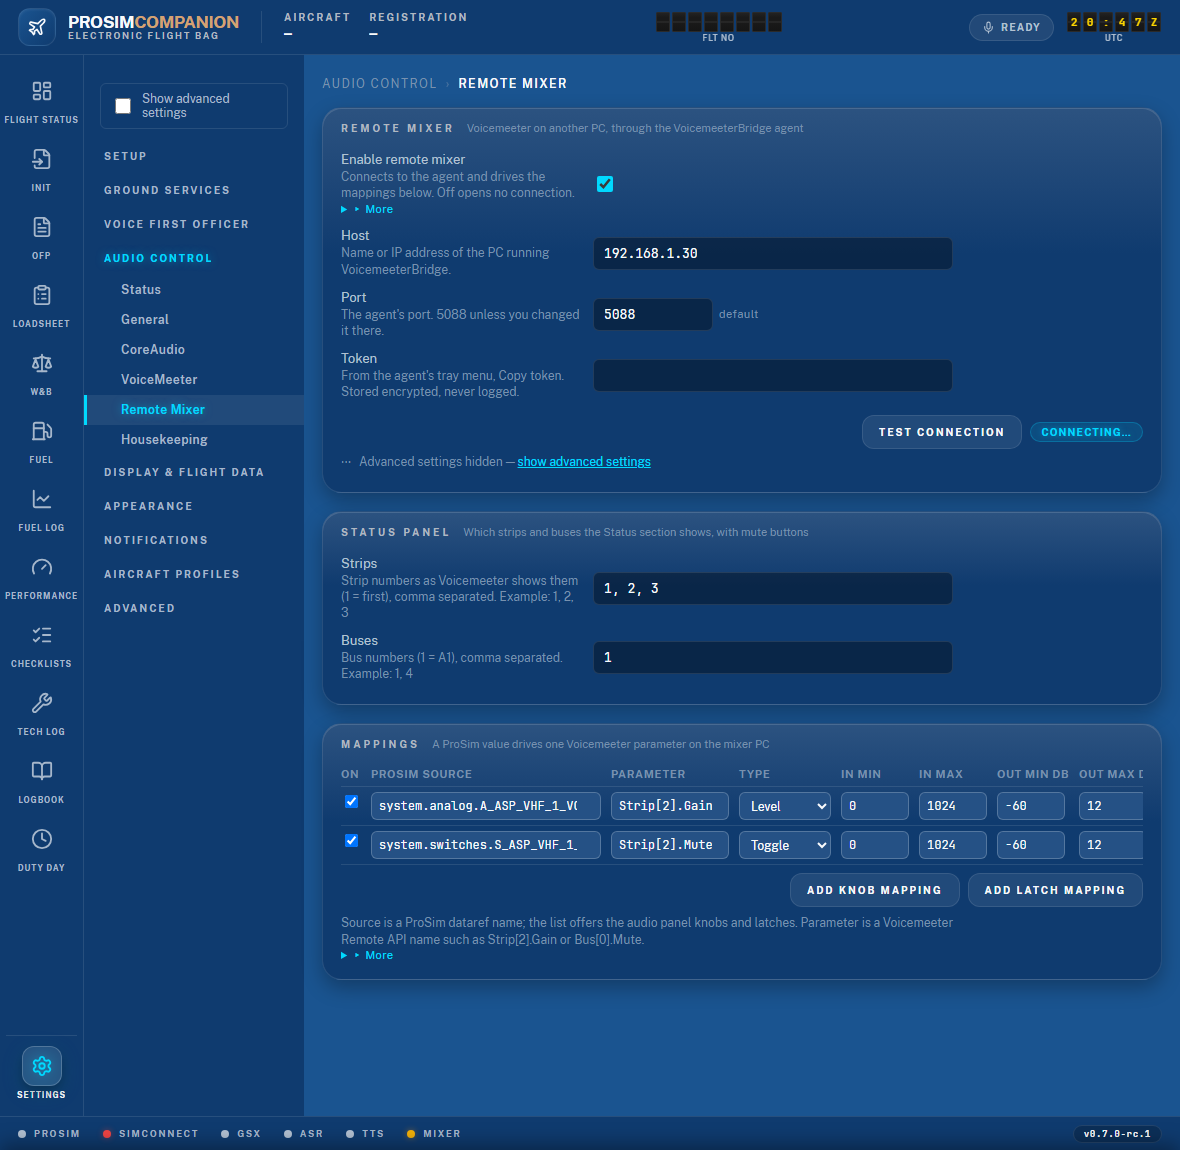
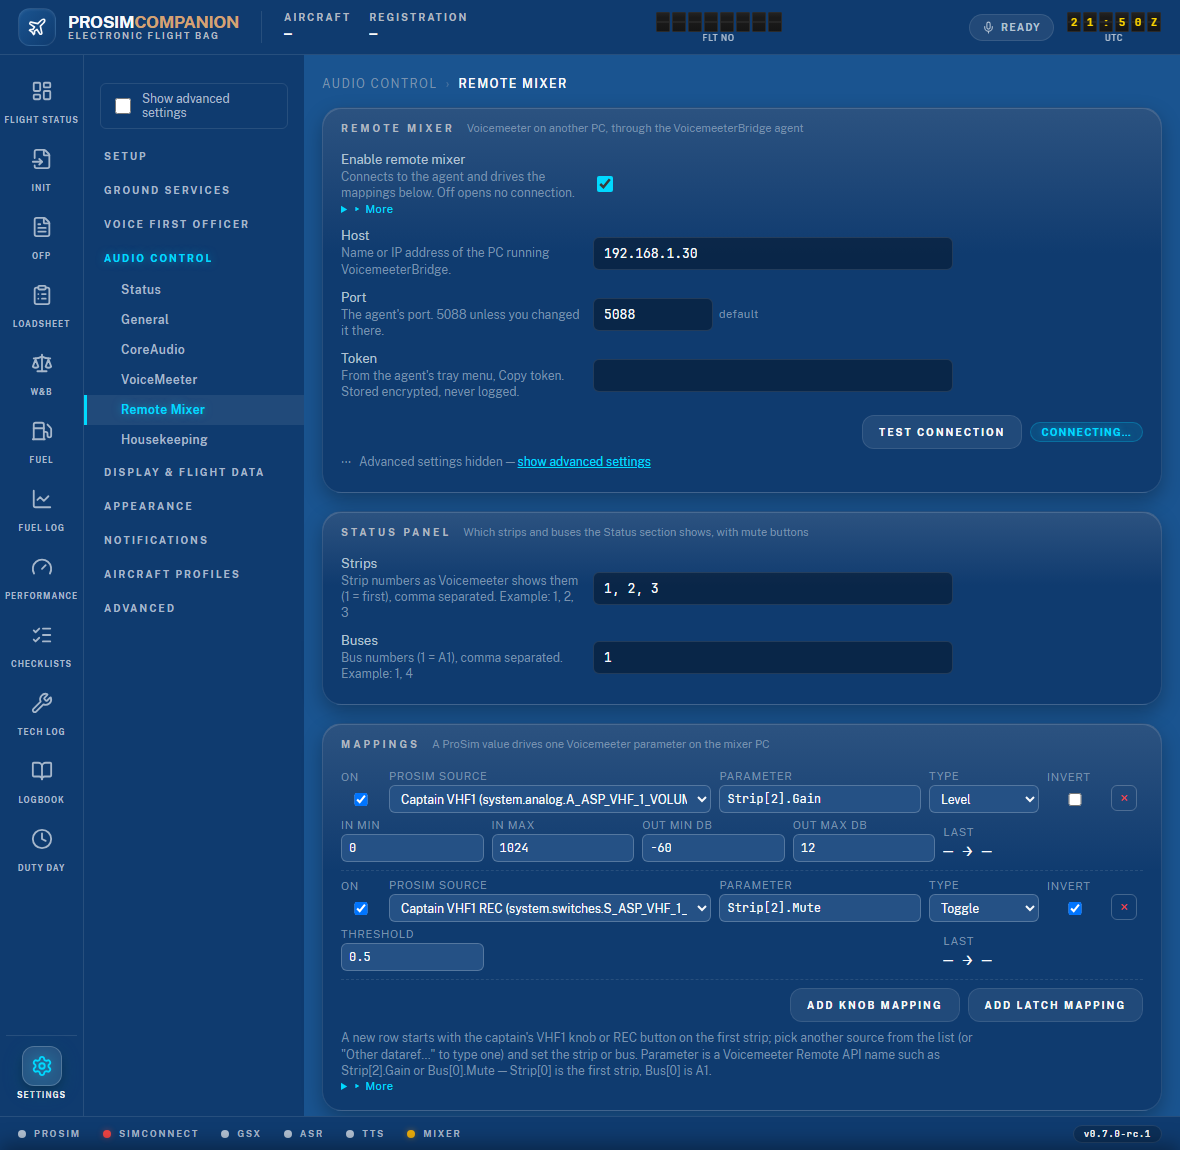
Mixer: source drop-down with a preselected knob, two-line mapping rows
Owner feedback 2026-10-10: the source box looked filled but was empty (a placeholder), and
the Type drop-down was too narrow to read. The source is now a real drop-down grouped by
knobs / REC push-buttons / loudspeaker dials (catalog names only) with "Other dataref…"
for a typed name; Add knob / Add latch rows arrive complete (captain VHF1 onto Strip[0]).
Each mapping renders on two grid lines so every box has room. Manual 9.5 and the
screenshot follow.

Changed region(s): [[0.2746, 0.6696, 1.0, 0.9739]]

diff --git a/src/ProsimCompanion.Web/wwwroot/css/app.css b/src/ProsimCompanion.Web/wwwroot/css/app.css
@@ -1500,6 +1500,43 @@ split-flap { display: inline-flex; align-items: center; justify-content: center;
 
 .audio-cell-check { justify-self: center; }
 
+/* Remote mixer mappings (2026-10-10): two lines per mapping so every box has room to be
+   read — the identity line (source, parameter, type, invert) and the numbers line. */
+.mixer-map-block {
+  padding: 8px 0;
+  border-bottom: 1px dashed var(--border);
+}
+.mixer-map-row {
+  display: grid;
+  grid-template-columns: 40px minmax(200px, 1.6fr) minmax(120px, 1fr) 110px 56px 32px;
+  gap: 8px;
+  align-items: end;
+}
+.mixer-map-sub {
+  display: grid;
+  grid-template-columns: repeat(4, minmax(72px, 1fr)) minmax(150px, 1.4fr);
+  gap: 8px;
+  align-items: end;
+  margin-top: 6px;
+}
+.mixer-map-cell {
+  display: flex;
+  flex-direction: column;
+  gap: 3px;
+  min-width: 0;
+}
+.mixer-map-cell .cell-select,
+.mixer-map-cell .cell-input { width: 100%; min-width: 0; }
+.mixer-map-cell .audio-cell-check { justify-self: start; margin: 7px 0; }
+.mixer-map-label {
+  font-size: 11px;
+  text-transform: uppercase;
+  letter-spacing: 0.06em;
+  color: var(--text-muted);
+}
+.mixer-map-last { grid-column: 5; }
+.mixer-map-row .remove-btn { margin-bottom: 2px; }
+
 /* -------------------------------------------------------------- data tables */
 
 .table-scroll { overflow-x: auto; }
@@ -1628,6 +1665,8 @@ split-flap { display: inline-flex; align-items: center; justify-content: center;
     border-bottom: 1px dashed var(--border);
   }
   .audio-cell-check { justify-self: start; }
+  .mixer-map-row, .mixer-map-sub { grid-template-columns: 1fr; }
+  .mixer-map-last { grid-column: auto; }
 }
 
 @media (max-width: 540px) {

diff --git a/docs/manual/09-remote-mixer.md b/docs/manual/09-remote-mixer.md
@@ -71,22 +71,28 @@ up the pill is green and the rows show the real labels, gains and mute states.)
 Settings → Audio Control → Remote Mixer → **Mappings**. Each row sends one ProSim value to
 one Voicemeeter parameter.
 
+Each mapping takes two lines: the first says *what* (source, parameter, type, invert), the
+second holds the numbers.
+
 **A volume knob → a strip gain**
 
-1. Click **Add knob mapping**. The row comes with the right defaults: type *Level*, input
+1. Click **Add knob mapping**. The row comes filled in: source *Captain VHF1*
+   (`system.analog.A_ASP_VHF_1_VOLUME`), parameter `Strip[0].Gain`, type *Level*, input
    0 … 1024 (the knob's travel), output −60 … +12 dB.
-2. **ProSim source**: open the list and pick the knob, for example *Captain Vhf1 knob*
-   (`system.analog.A_ASP_VHF_1_VOLUME`). The first officer's knobs are `A_ASP2_…`, the
-   observer's `A_ASP3_…`.
+2. **ProSim source**: the drop-down lists every knob, REC push-button and loudspeaker dial
+   by panel — *Captain*, *First Officer*, *Observer*. Pick another one if VHF1 is not the
+   channel you want. The last entry, *Other dataref…*, opens a text box for a name that is
+   not in the list.
 3. **Parameter**: the strip or bus, as the Voicemeeter Remote API names it:
-   `Strip[2].Gain` is the **third** strip (counting starts at 0), `Bus[0].Gain` is A1.
+   `Strip[0].Gain` is the **first** strip (counting starts at 0), `Strip[2].Gain` the third,
+   `Bus[0].Gain` is A1. Change the number to your vPilot strip.
 
 **The REC push-button → the strip mute**
 
-1. Click **Add latch mapping**. The row is type *Toggle* with **Invert** already ticked.
-2. **ProSim source**: pick the matching latch, for example *Captain Vhf1 REC latch*
-   (`system.switches.S_ASP_VHF_1_REC_LATCH`).
-3. **Parameter**: `Strip[2].Mute`.
+1. Click **Add latch mapping**. The row comes filled in too: *Captain VHF1 REC*
+   (`system.switches.S_ASP_VHF_1_REC_LATCH`) onto `Strip[0].Mute`, type *Toggle*,
+   **Invert** already ticked.
+2. Pick the push-button that matches the knob above, and set the same strip number.
 
 Why Invert: ProSim reports the latch as 1 when the channel is **open** (button out), and
 Voicemeeter's Mute wants 1 when **muted**. Invert swaps them.
